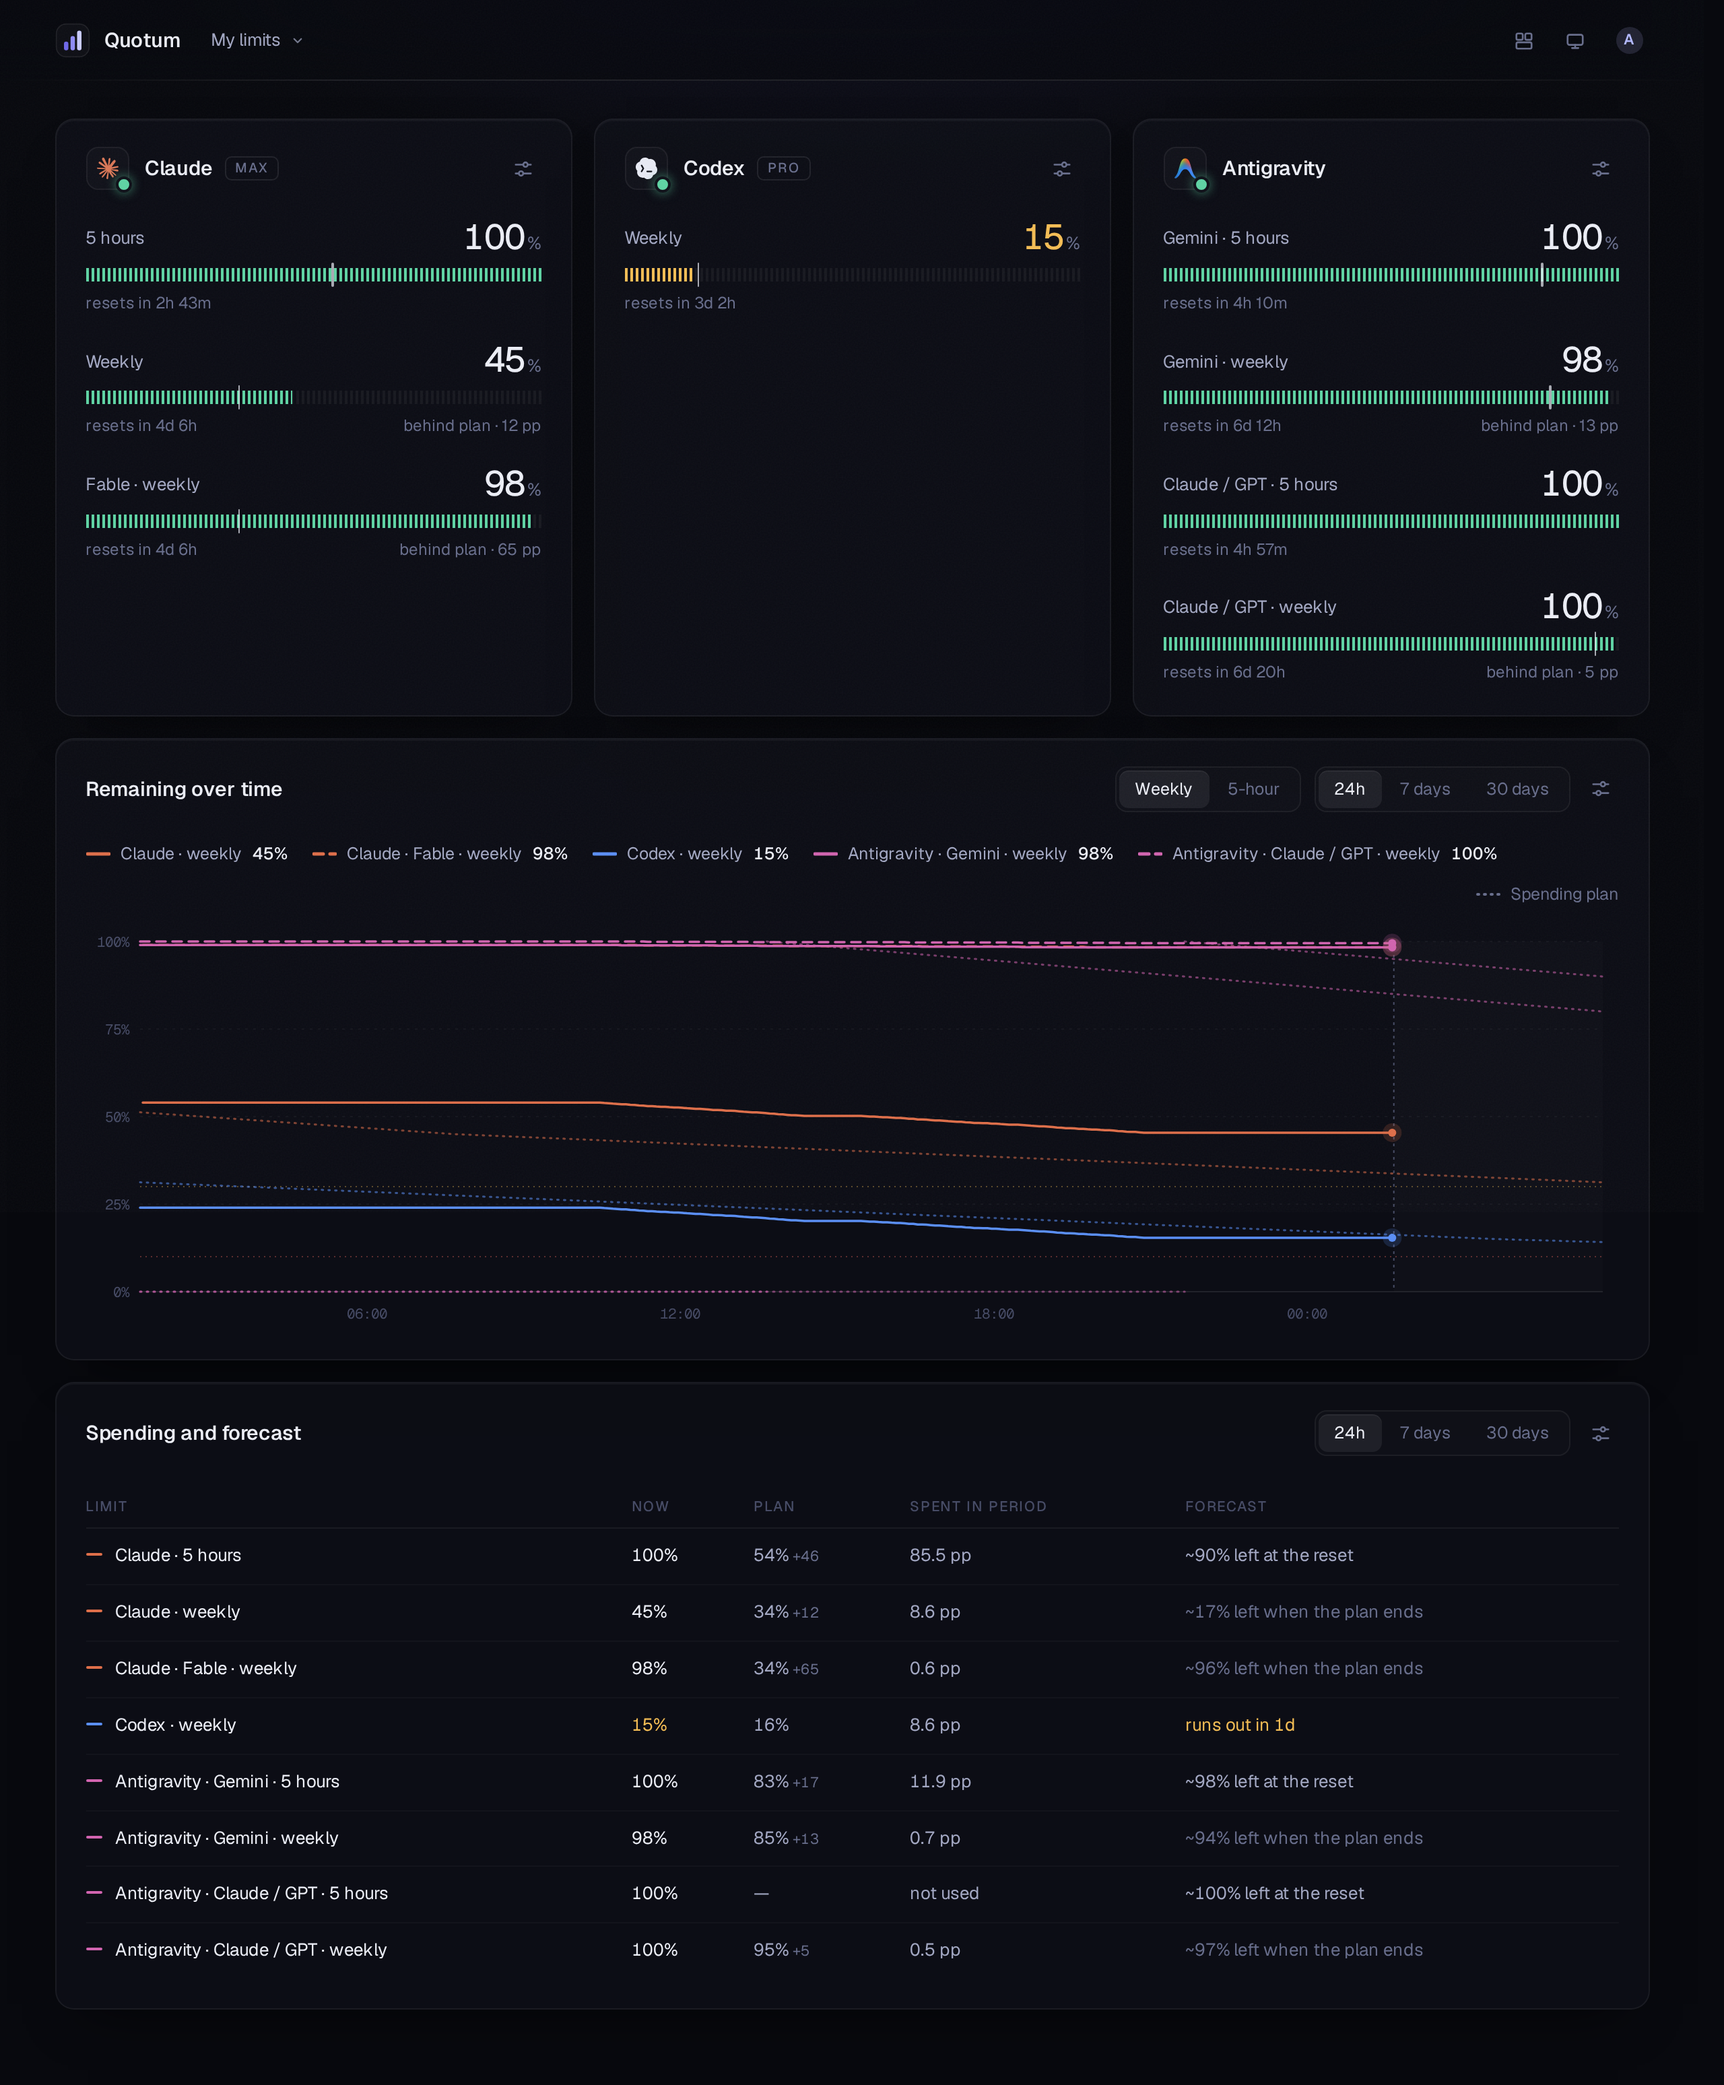
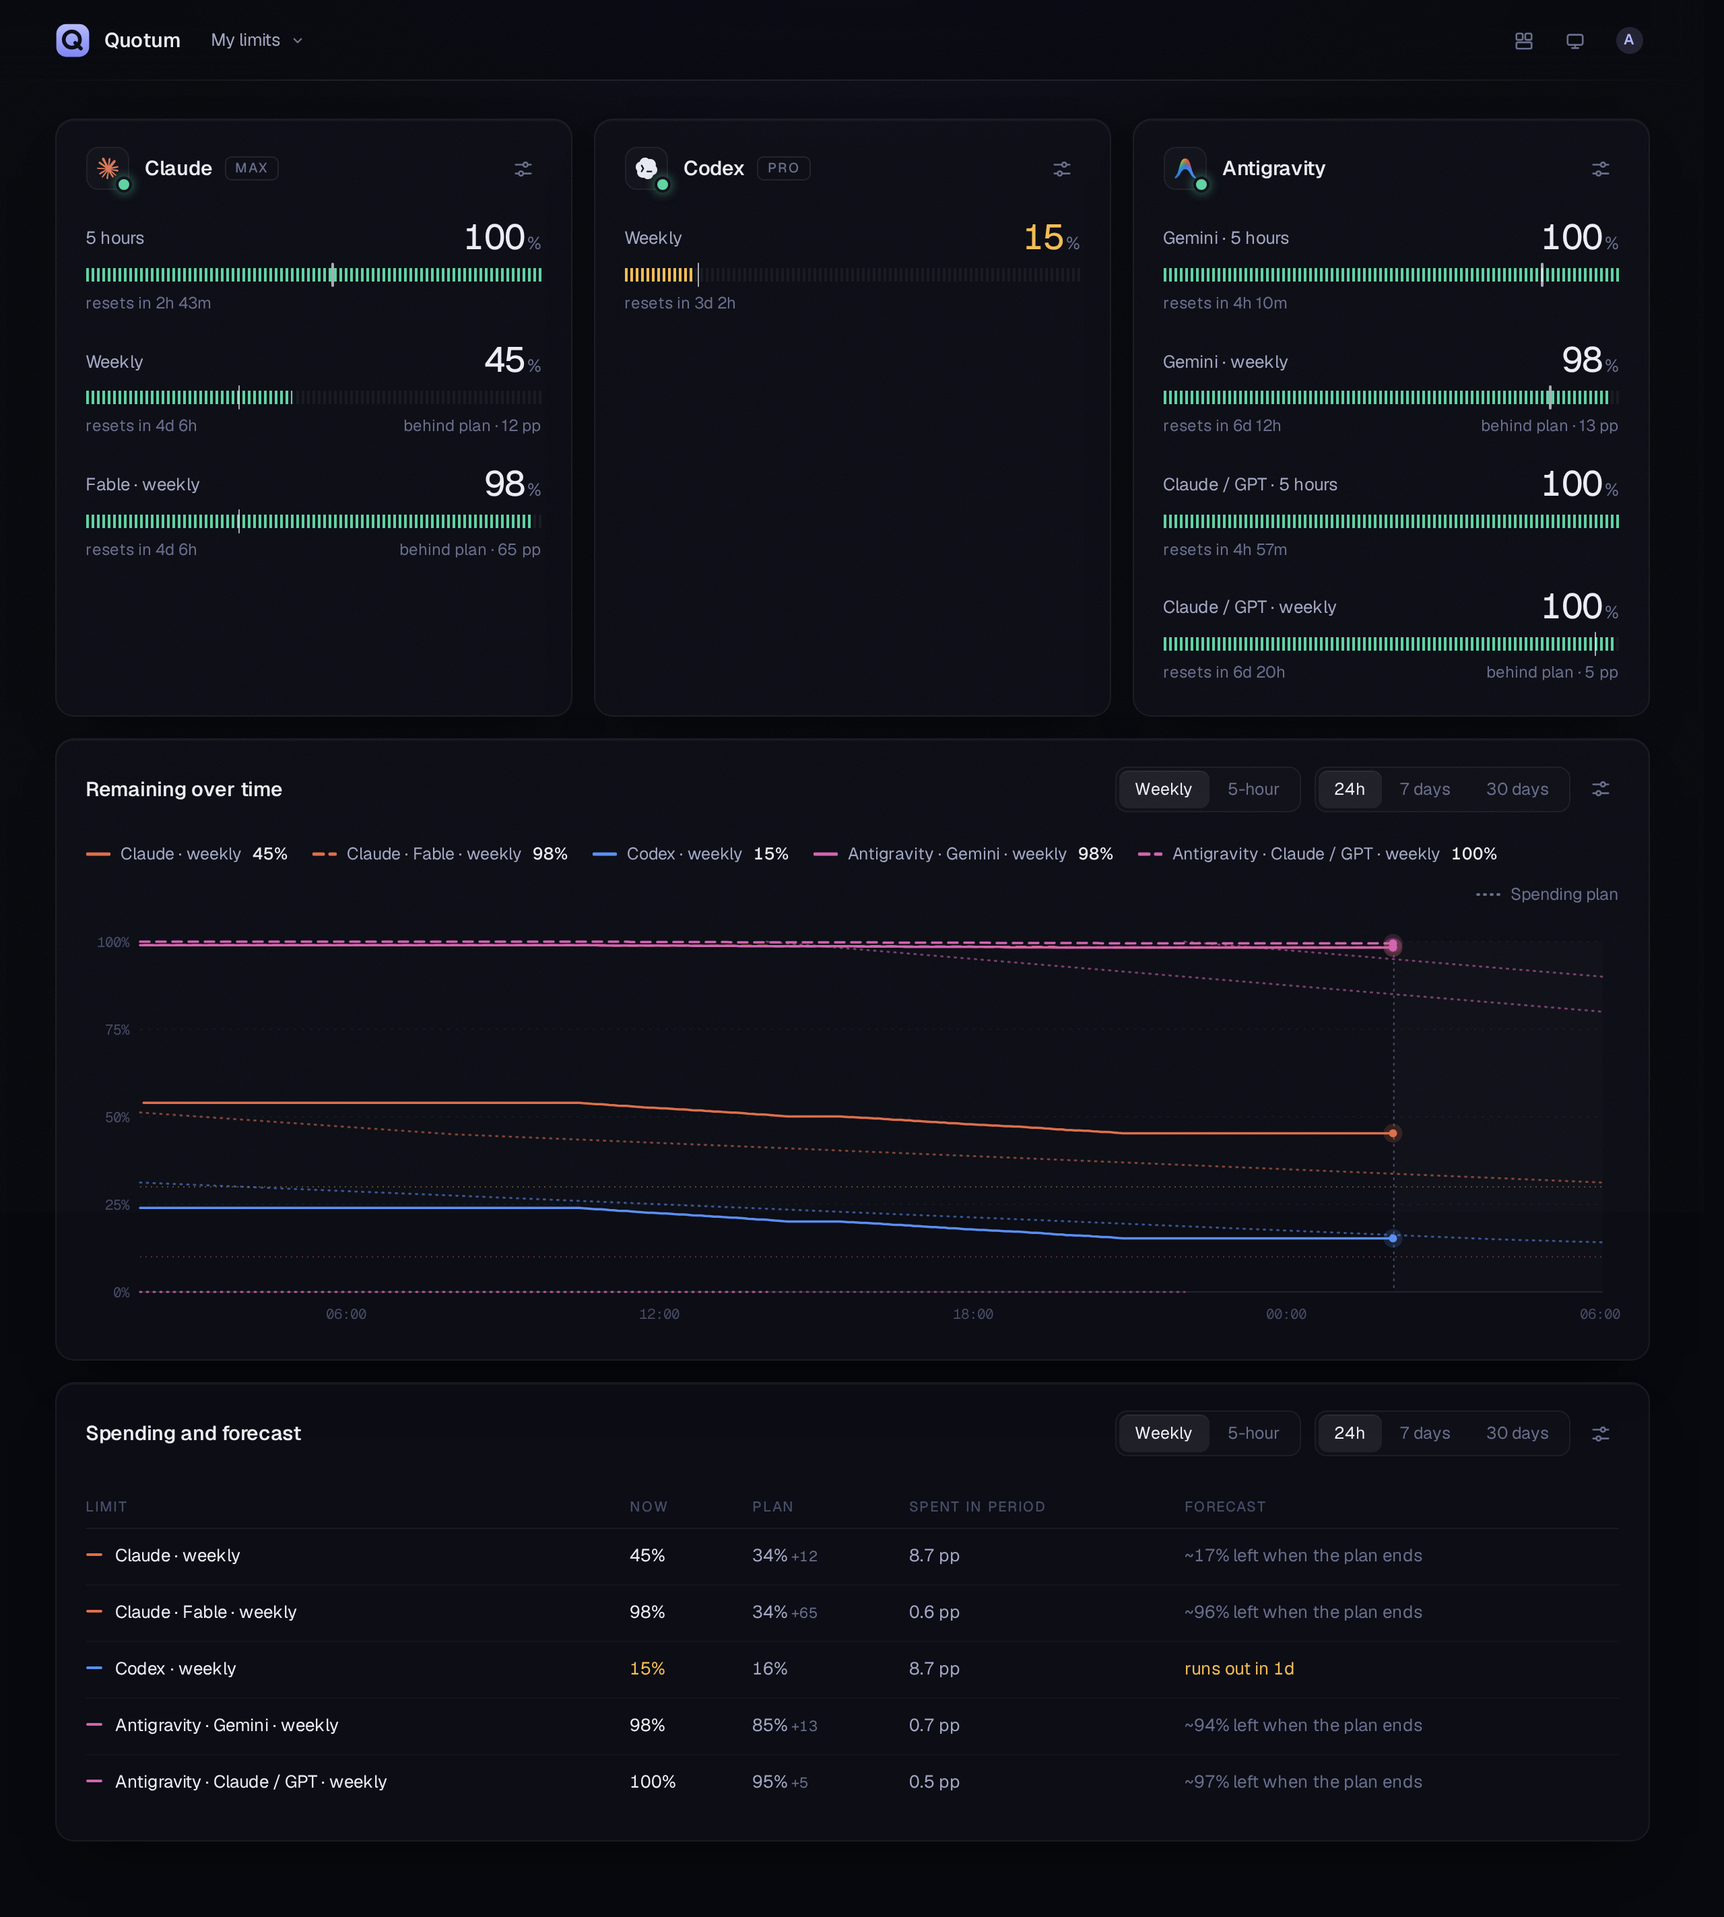
A new mark: a Q that is also a magnifier
The dashboard's logo is a dark Q on the accent colour; the favicon is the same
Q in the accent colour on a dark tile, readable down to 16 px; a home-screen
icon for phones comes with it. README screenshots show the new header and the
table's own weekly and 5-hour switch.

diff --git a/hub/ui/components/Kit.tsx b/hub/ui/components/Kit.tsx
@@ -99,13 +99,22 @@ export function Segmented<K extends string>({options, value, onChange, label}: {
   );
 }
 
+/**
+ * The Quotum mark: a Q that is also a magnifier, dark on the accent colour. The
+ * favicon (public/favicon.svg) is the same Q in the accent colour on a dark tile.
+ */
 export function Logo() {
   return (
     <svg className="logo" viewBox="0 0 32 32" aria-hidden="true">
-      <rect x="1" y="1" width="30" height="30" rx="9" className="logo-bg" />
-      <rect x="8" y="17" width="4" height="8" rx="2" className="logo-bar a" />
-      <rect x="14" y="12" width="4" height="13" rx="2" className="logo-bar b" />
-      <rect x="20" y="7" width="4" height="18" rx="2" className="logo-bar c" />
+      <defs>
+        <linearGradient id="quotum-logo-tile" x1="0" y1="0" x2="0" y2="32" gradientUnits="userSpaceOnUse">
+          <stop offset="0" stopColor="#b8bdff" />
+          <stop offset="1" stopColor="#7c83f2" />
+        </linearGradient>
+      </defs>
+      <rect x="1" y="1" width="30" height="30" rx="9" fill="url(#quotum-logo-tile)" />
+      <circle cx="15.2" cy="15.2" r="7.4" className="logo-mark" />
+      <path d="M18.3 18.3L23.4 23.4" className="logo-mark" />
     </svg>
   );
 }

diff --git a/hub/ui/style.css b/hub/ui/style.css
@@ -50,10 +50,7 @@ button { font: inherit; color: inherit; cursor: pointer; }
 .topbar-inner { max-width: 1240px; margin: 0 auto; padding: 0 28px; height: 60px; display: flex; align-items: center; gap: 24px; }
 .brand { display: flex; align-items: center; gap: 11px; color: var(--text); text-decoration: none; font-weight: 560; font-size: 15px; letter-spacing: -.01em; white-space: nowrap; }
 .logo { width: 26px; height: 26px; }
-.logo-bg { fill: #ffffff08; stroke: var(--hair-2); }
-.logo-bar.a { fill: #6f68e8; }
-.logo-bar.b { fill: #8f8cf6; }
-.logo-bar.c { fill: #c9cbff; }
+.logo-mark { fill: none; stroke: #0c0d18; stroke-width: 3.4; stroke-linecap: round; }
 .status { margin-left: auto; display: flex; align-items: center; gap: 12px; font-size: 13px; color: var(--text-2); min-width: 0; }
 .mono { font-family: var(--mono); font-size: .92em; color: var(--text-2); }
 .dot { display: inline-block; width: 6px; height: 6px; border-radius: 50%; flex-shrink: 0; }

diff --git a/hub/index.html b/hub/index.html
@@ -5,6 +5,7 @@
     <meta name="viewport" content="width=device-width,initial-scale=1" />
     <meta name="theme-color" content="#08090e" />
     <link rel="icon" type="image/svg+xml" href="/favicon.svg" />
+    <link rel="apple-touch-icon" href="/apple-touch-icon.png" />
     <title>Quotum</title>
   </head>
   <body>
